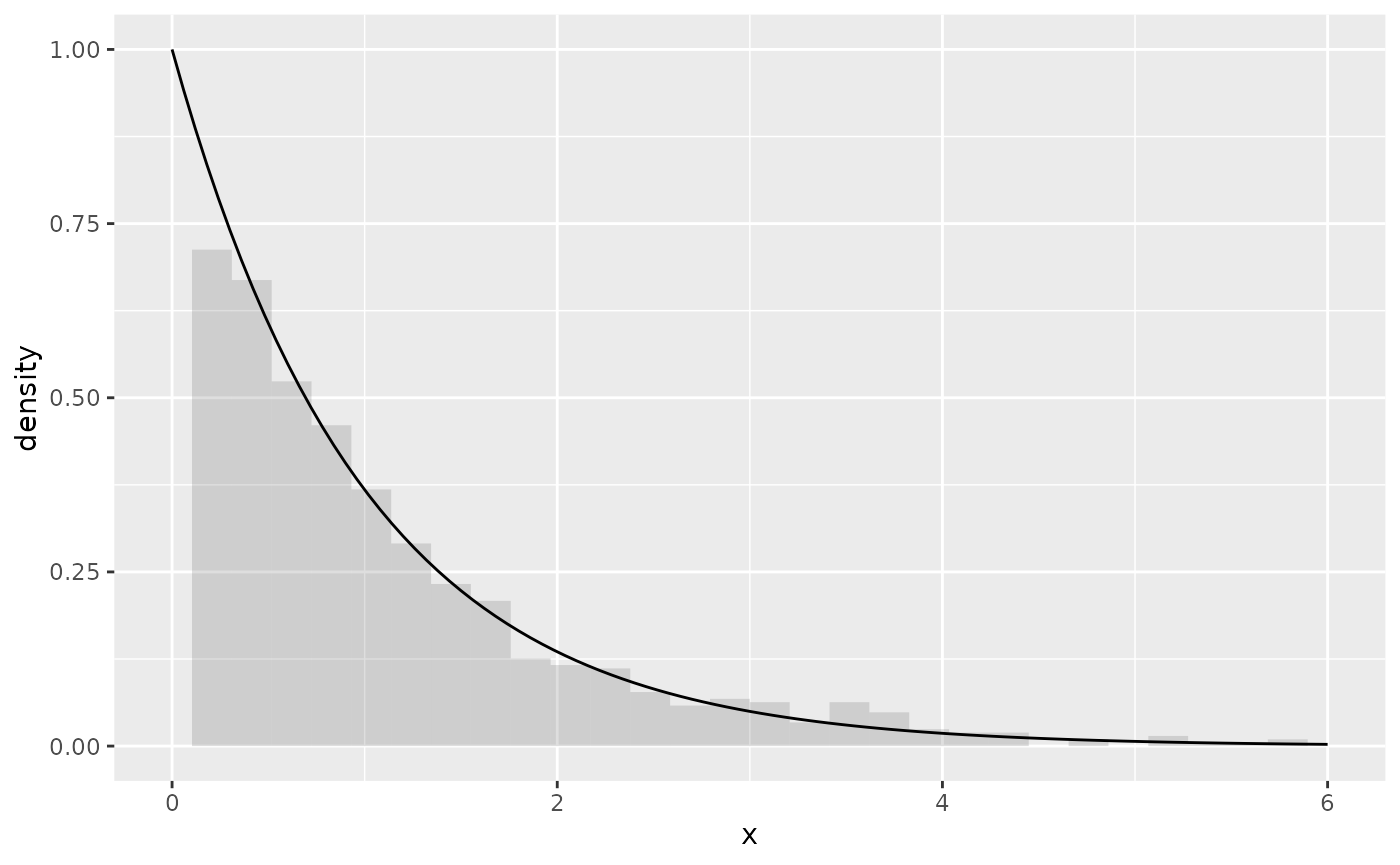
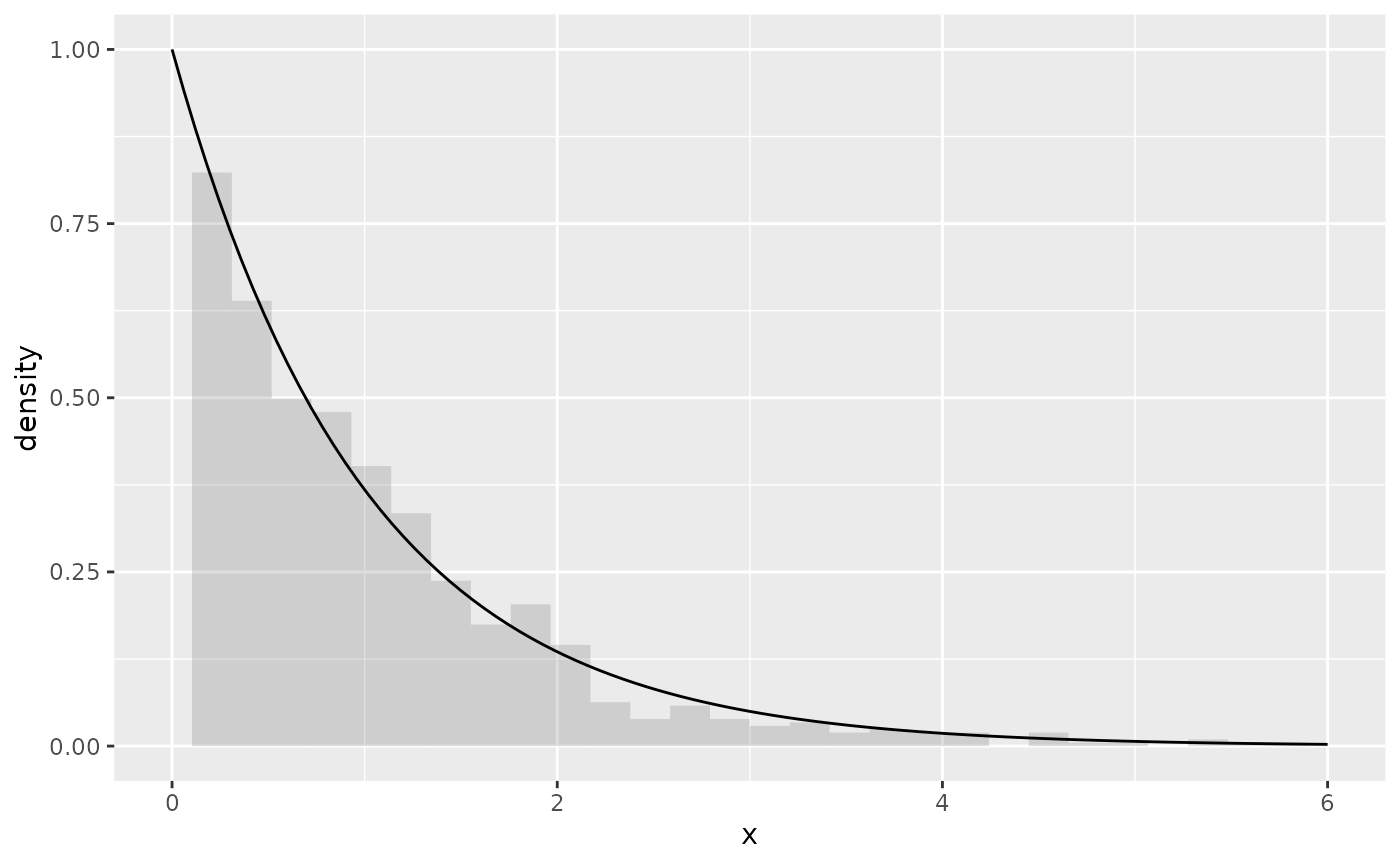
Built site for algebraic.mle: 0.1.0@7ae1e23

diff --git a/articles/exponential-mle.html b/articles/exponential-mle.html
@@ -6,12 +6,12 @@
 <meta http-equiv="X-UA-Compatible" content="IE=edge">
 <meta name="viewport" content="width=device-width, initial-scale=1, shrink-to-fit=no">
 <meta name="description" content="algebraic.mle">
-<title>Maximum likelihood estimator of the exponential distribution • algebraic.mle</title>
+<title>Exponential distribution MLE • algebraic.mle</title>
 <script src="../deps/jquery-3.6.0/jquery-3.6.0.min.js"></script><meta name="viewport" content="width=device-width, initial-scale=1, shrink-to-fit=no">
 <link href="../deps/bootstrap-5.1.0/bootstrap.min.css" rel="stylesheet">
 <script src="../deps/bootstrap-5.1.0/bootstrap.bundle.min.js"></script><!-- Font Awesome icons --><link rel="stylesheet" href="https://cdnjs.cloudflare.com/ajax/libs/font-awesome/5.12.1/css/all.min.css" integrity="sha256-mmgLkCYLUQbXn0B1SRqzHar6dCnv9oZFPEC1g1cwlkk=" crossorigin="anonymous">
 <link rel="stylesheet" href="https://cdnjs.cloudflare.com/ajax/libs/font-awesome/5.12.1/css/v4-shims.min.css" integrity="sha256-wZjR52fzng1pJHwx4aV2AO3yyTOXrcDW7jBpJtTwVxw=" crossorigin="anonymous">
-<!-- bootstrap-toc --><script src="https://cdn.rawgit.com/afeld/bootstrap-toc/v1.0.1/dist/bootstrap-toc.min.js"></script><!-- headroom.js --><script src="https://cdnjs.cloudflare.com/ajax/libs/headroom/0.11.0/headroom.min.js" integrity="sha256-AsUX4SJE1+yuDu5+mAVzJbuYNPHj/WroHuZ8Ir/CkE0=" crossorigin="anonymous"></script><script src="https://cdnjs.cloudflare.com/ajax/libs/headroom/0.11.0/jQuery.headroom.min.js" integrity="sha256-ZX/yNShbjqsohH1k95liqY9Gd8uOiE1S4vZc+9KQ1K4=" crossorigin="anonymous"></script><!-- clipboard.js --><script src="https://cdnjs.cloudflare.com/ajax/libs/clipboard.js/2.0.6/clipboard.min.js" integrity="sha256-inc5kl9MA1hkeYUt+EC3BhlIgyp/2jDIyBLS6k3UxPI=" crossorigin="anonymous"></script><!-- search --><script src="https://cdnjs.cloudflare.com/ajax/libs/fuse.js/6.4.6/fuse.js" integrity="sha512-zv6Ywkjyktsohkbp9bb45V6tEMoWhzFzXis+LrMehmJZZSys19Yxf1dopHx7WzIKxr5tK2dVcYmaCk2uqdjF4A==" crossorigin="anonymous"></script><script src="https://cdnjs.cloudflare.com/ajax/libs/autocomplete.js/0.38.0/autocomplete.jquery.min.js" integrity="sha512-GU9ayf+66Xx2TmpxqJpliWbT5PiGYxpaG8rfnBEk1LL8l1KGkRShhngwdXK1UgqhAzWpZHSiYPc09/NwDQIGyg==" crossorigin="anonymous"></script><script src="https://cdnjs.cloudflare.com/ajax/libs/mark.js/8.11.1/mark.min.js" integrity="sha512-5CYOlHXGh6QpOFA/TeTylKLWfB3ftPsde7AnmhuitiTX4K5SqCLBeKro6sPS8ilsz1Q4NRx3v8Ko2IBiszzdww==" crossorigin="anonymous"></script><!-- pkgdown --><script src="../pkgdown.js"></script><meta property="og:title" content="Maximum likelihood estimator of the exponential distribution">
+<!-- bootstrap-toc --><script src="https://cdn.rawgit.com/afeld/bootstrap-toc/v1.0.1/dist/bootstrap-toc.min.js"></script><!-- headroom.js --><script src="https://cdnjs.cloudflare.com/ajax/libs/headroom/0.11.0/headroom.min.js" integrity="sha256-AsUX4SJE1+yuDu5+mAVzJbuYNPHj/WroHuZ8Ir/CkE0=" crossorigin="anonymous"></script><script src="https://cdnjs.cloudflare.com/ajax/libs/headroom/0.11.0/jQuery.headroom.min.js" integrity="sha256-ZX/yNShbjqsohH1k95liqY9Gd8uOiE1S4vZc+9KQ1K4=" crossorigin="anonymous"></script><!-- clipboard.js --><script src="https://cdnjs.cloudflare.com/ajax/libs/clipboard.js/2.0.6/clipboard.min.js" integrity="sha256-inc5kl9MA1hkeYUt+EC3BhlIgyp/2jDIyBLS6k3UxPI=" crossorigin="anonymous"></script><!-- search --><script src="https://cdnjs.cloudflare.com/ajax/libs/fuse.js/6.4.6/fuse.js" integrity="sha512-zv6Ywkjyktsohkbp9bb45V6tEMoWhzFzXis+LrMehmJZZSys19Yxf1dopHx7WzIKxr5tK2dVcYmaCk2uqdjF4A==" crossorigin="anonymous"></script><script src="https://cdnjs.cloudflare.com/ajax/libs/autocomplete.js/0.38.0/autocomplete.jquery.min.js" integrity="sha512-GU9ayf+66Xx2TmpxqJpliWbT5PiGYxpaG8rfnBEk1LL8l1KGkRShhngwdXK1UgqhAzWpZHSiYPc09/NwDQIGyg==" crossorigin="anonymous"></script><script src="https://cdnjs.cloudflare.com/ajax/libs/mark.js/8.11.1/mark.min.js" integrity="sha512-5CYOlHXGh6QpOFA/TeTylKLWfB3ftPsde7AnmhuitiTX4K5SqCLBeKro6sPS8ilsz1Q4NRx3v8Ko2IBiszzdww==" crossorigin="anonymous"></script><!-- pkgdown --><script src="../pkgdown.js"></script><meta property="og:title" content="Exponential distribution MLE">
 <meta property="og:description" content="algebraic.mle">
 <!-- mathjax --><script src="https://cdnjs.cloudflare.com/ajax/libs/mathjax/2.7.5/MathJax.js" integrity="sha256-nvJJv9wWKEm88qvoQl9ekL2J+k/RWIsaSScxxlsrv8k=" crossorigin="anonymous"></script><script src="https://cdnjs.cloudflare.com/ajax/libs/mathjax/2.7.5/config/TeX-AMS-MML_HTMLorMML.js" integrity="sha256-84DKXVJXs0/F8OTMzX4UR909+jtl4G7SPypPavF+GfA=" crossorigin="anonymous"></script><!--[if lt IE 9]>
 <script src="https://oss.maxcdn.com/html5shiv/3.7.3/html5shiv.min.js"></script>
@@ -41,7 +41,7 @@
 <li class="active nav-item dropdown">
   <a href="#" class="nav-link dropdown-toggle" data-bs-toggle="dropdown" role="button" aria-expanded="false" aria-haspopup="true" id="dropdown-articles">Articles</a>
   <div class="dropdown-menu" aria-labelledby="dropdown-articles">
-    <a class="dropdown-item" href="../articles/exponential-mle.html">Maximum likelihood estimator of the exponential distribution</a>
+    <a class="dropdown-item" href="../articles/exponential-mle.html">Exponential distribution MLE</a>
   </div>
 </li>
 <li class="nav-item">
@@ -70,7 +70,7 @@
 
 <script src="exponential-mle_files/accessible-code-block-0.0.1/empty-anchor.js"></script><div class="row">
   <main id="main"><div class="page-header">
-      <img src="" class="logo" alt=""><h1>Maximum likelihood estimator of the exponential distribution</h1>
+      <img src="" class="logo" alt=""><h1>Exponential distribution MLE</h1>
             
       
       <small class="dont-index">Source: <a href="https://github.com/queelius/algebraic.mle/blob/HEAD/vignettes/exponential-mle.Rmd" class="external-link"><code>vignettes/exponential-mle.Rmd</code></a></small>
@@ -85,7 +85,9 @@
 <p>To demonstrate the <code>algebraic.mle</code> R package, we consider the relatively simple case of a random sample from the exponentially distributed random variables.</p>
 <p>First, we load the R package <code>algebraic.mle</code> with:</p>
 <div class="sourceCode" id="cb1"><pre class="downlit sourceCode r">
-<code class="sourceCode R"><span class="kw"><a href="https://rdrr.io/r/base/library.html" class="external-link">library</a></span><span class="op">(</span><span class="va"><a href="https://github.com/queelius/algebraic.mle" class="external-link">algebraic.mle</a></span><span class="op">)</span></code></pre></div>
+<code class="sourceCode R"><span class="co">#library(devtools)</span>
+<span class="co">#devtools::install_github("queelius/algebraic.mle")</span>
+<span class="kw"><a href="https://rdrr.io/r/base/library.html" class="external-link">library</a></span><span class="op">(</span><span class="va"><a href="https://github.com/queelius/algebraic.mle" class="external-link">algebraic.mle</a></span><span class="op">)</span></code></pre></div>
 </div>
 <div class="section level2">
 <h2 id="generating-a-sample">Generating a sample<a class="anchor" aria-label="anchor" href="#generating-a-sample"></a>
@@ -103,10 +105,10 @@
 <span class="co">#&gt; <span style="color: #949494;"># A tibble: 4 × 1</span></span>
 <span class="co">#&gt;        x</span>
 <span class="co">#&gt;    <span style="color: #949494; font-style: italic;">&lt;dbl&gt;</span></span>
-<span class="co">#&gt; <span style="color: #BCBCBC;">1</span> 0.143 </span>
-<span class="co">#&gt; <span style="color: #BCBCBC;">2</span> 0.901 </span>
-<span class="co">#&gt; <span style="color: #BCBCBC;">3</span> 0.575 </span>
-<span class="co">#&gt; <span style="color: #BCBCBC;">4</span> 0.073<span style="text-decoration: underline;">0</span></span></code></pre></div>
+<span class="co">#&gt; <span style="color: #BCBCBC;">1</span> 0.028<span style="text-decoration: underline;">2</span></span>
+<span class="co">#&gt; <span style="color: #BCBCBC;">2</span> 0.041<span style="text-decoration: underline;">0</span></span>
+<span class="co">#&gt; <span style="color: #BCBCBC;">3</span> 1.26  </span>
+<span class="co">#&gt; <span style="color: #BCBCBC;">4</span> 1.12</span></code></pre></div>
 <p>We show a histogram of the sample, and a plot of the exponential function’s pdf, with:</p>
 <div class="sourceCode" id="cb4"><pre class="downlit sourceCode r">
 <code class="sourceCode R"><span class="kw"><a href="https://rdrr.io/r/base/library.html" class="external-link">library</a></span><span class="op">(</span><span class="va"><a href="https://ggplot2.tidyverse.org" class="external-link">ggplot2</a></span><span class="op">)</span>
@@ -125,35 +127,35 @@
 <span class="fu"><a href="https://rdrr.io/r/base/summary.html" class="external-link">summary</a></span><span class="op">(</span><span class="va">rate.hat</span><span class="op">)</span>
 <span class="co">#&gt; Maximum likelihood estimator, of type mle_exp ,</span>
 <span class="co">#&gt; is normally distributed with mean</span>
-<span class="co">#&gt; [1] 0.94025</span>
+<span class="co">#&gt; [1] 1.022601</span>
 <span class="co">#&gt; and variance-covariance</span>
-<span class="co">#&gt;              [,1]</span>
-<span class="co">#&gt; [1,] 0.0008840701</span>
+<span class="co">#&gt;             [,1]</span>
+<span class="co">#&gt; [1,] 0.001045712</span>
 <span class="co">#&gt; ---</span>
-<span class="co">#&gt; The asymptotic mean squared error 0.0008840701 </span>
+<span class="co">#&gt; The asymptotic mean squared error 0.001045712 </span>
 <span class="co">#&gt; The asymptotic 95% confidence interval is</span>
 <span class="co">#&gt;       2.5 %   97.5 %</span>
-<span class="co">#&gt; 1 0.8913431 0.989157</span>
-<span class="co">#&gt; The log-likelihood is -1061.609 </span>
-<span class="co">#&gt; The AIC is 2125.219</span></code></pre></div>
+<span class="co">#&gt; 1 0.9694101 1.075791</span>
+<span class="co">#&gt; The log-likelihood is -977.6511 </span>
+<span class="co">#&gt; The AIC is 1957.302</span></code></pre></div>
 <p>We can show the point estimator with:</p>
 <div class="sourceCode" id="cb6"><pre class="downlit sourceCode r">
 <code class="sourceCode R"><span class="fu"><a href="../reference/point.html">point</a></span><span class="op">(</span><span class="va">rate.hat</span><span class="op">)</span>
-<span class="co">#&gt; [1] 0.94025</span></code></pre></div>
+<span class="co">#&gt; [1] 1.022601</span></code></pre></div>
 <p>We can show the Fisher information and variance-covariance matrices with:</p>
 <div class="sourceCode" id="cb7"><pre class="downlit sourceCode r">
 <code class="sourceCode R"><span class="fu"><a href="../reference/fisher_info.html">fisher_info</a></span><span class="op">(</span><span class="va">rate.hat</span><span class="op">)</span>
 <span class="co">#&gt;          [,1]</span>
-<span class="co">#&gt; [1,] 1131.132</span>
+<span class="co">#&gt; [1,] 956.2864</span>
 <span class="fu"><a href="https://rdrr.io/r/stats/vcov.html" class="external-link">vcov</a></span><span class="op">(</span><span class="va">rate.hat</span><span class="op">)</span>
-<span class="co">#&gt;              [,1]</span>
-<span class="co">#&gt; [1,] 0.0008840701</span></code></pre></div>
+<span class="co">#&gt;             [,1]</span>
+<span class="co">#&gt; [1,] 0.001045712</span></code></pre></div>
 <p>(If <code>rate.hat</code> had been a vector, <code>vcov</code> would have output a variance-covariance matrix. We may consider the above outputs <span class="math inline">\(1 \times 1\)</span> matrices.)</p>
 <p>We can show the confidence interval with:</p>
 <div class="sourceCode" id="cb8"><pre class="downlit sourceCode r">
 <code class="sourceCode R"><span class="fu"><a href="https://rdrr.io/r/stats/confint.html" class="external-link">confint</a></span><span class="op">(</span><span class="va">rate.hat</span><span class="op">)</span>
 <span class="co">#&gt;       2.5 %   97.5 %</span>
-<span class="co">#&gt; 1 0.8913431 0.989157</span></code></pre></div>
+<span class="co">#&gt; 1 0.9694101 1.075791</span></code></pre></div>
 <div class="section level3">
 <h3 id="sampling-distribution-of-the-mle">Sampling distribution of the MLE<a class="anchor" aria-label="anchor" href="#sampling-distribution-of-the-mle"></a>
 </h3>
@@ -204,23 +206,24 @@
 <p>We expected a mean of <span class="math inline">\(2\)</span> and a variance of <span class="math inline">\(4/n = 0.004\)</span>, which is pretty close to what we obtained:</p>
 <div class="sourceCode" id="cb14"><pre class="downlit sourceCode r">
 <code class="sourceCode R"><span class="fu"><a href="../reference/point.html">point</a></span><span class="op">(</span><span class="va">g.hat</span><span class="op">)</span>
-<span class="co">#&gt; [1] 1.8805</span>
+<span class="co">#&gt; [1] 2.045201</span>
 <span class="fu"><a href="https://rdrr.io/r/stats/vcov.html" class="external-link">vcov</a></span><span class="op">(</span><span class="va">g.hat</span><span class="op">)</span>
-<span class="co">#&gt;             [,1]</span>
-<span class="co">#&gt; [1,] 0.003543372</span></code></pre></div>
+<span class="co">#&gt;            [,1]</span>
+<span class="co">#&gt; [1,] 0.00450384</span></code></pre></div>
 </div>
 </div>
-<div class="section level3">
-<h3 id="weighted-mle-a-weighted-sum-of-maximum-likelihood-estimators">Weighted MLE: a weighted sum of maximum likelihood estimators<a class="anchor" aria-label="anchor" href="#weighted-mle-a-weighted-sum-of-maximum-likelihood-estimators"></a>
-</h3>
+</div>
+<div class="section level2">
+<h2 id="weighted-mle-a-weighted-sum-of-maximum-likelihood-estimators">Weighted MLE: a weighted sum of maximum likelihood estimators<a class="anchor" aria-label="anchor" href="#weighted-mle-a-weighted-sum-of-maximum-likelihood-estimators"></a>
+</h2>
 <p>Since the variance-covariance of an MLE is inversely proportional to the Fisher information that the MLE is defined with respect to, we can combine multiple MLEs of <span class="math inline">\(\theta\)</span>, each of which may be defined with respect to a different kind of sample, to arrive at the MLE that incorporates the Fisher information in all of those samples.</p>
 <p>Consider <span class="math inline">\(k\)</span> mutually independent MLE estimators of parameter <span class="math inline">\(\theta\)</span>, <span class="math inline">\(\hat\theta_1,\ldots,\hat\theta_k\)</span>, where <span class="math inline">\(\hat\theta_j \sim N(\theta,I_j^{-1}(\theta))\)</span>.</p>
 <p>Then, the maximum likelihood estimator of <span class="math inline">\(\theta\)</span> that incorporates all of the data in <span class="math inline">\(\hat\theta_1,\ldots,\hat\theta_k\)</span> is given by the inverse-variance weighted mean, <span class="math display">\[
     \hat\theta = \left(\sum I_j(\theta)\right)^{-1} \left(\sum I_j(\theta) \theta_j\right).
 \]</span></p>
-<div class="section level4">
-<h4 id="example-1">Example<a class="anchor" aria-label="anchor" href="#example-1"></a>
-</h4>
+<div class="section level3">
+<h3 id="example-1">Example<a class="anchor" aria-label="anchor" href="#example-1"></a>
+</h3>
 <p>To evaluate the performance of the weighted MLE, we generate a sample of <span class="math inline">\(N=1000\)</span> observations from <span class="math inline">\(\operatorname{EXP}(\lambda=1)\)</span> and compute the MLE for the observed sample, denoted by <span class="math inline">\(\theta\)</span>.</p>
 <p>We then divide the observed sample into <span class="math inline">\(r=5\)</span> sub-samples, each of size <span class="math inline">\(N/r=100\)</span>, and compute the MLE for each sub-sampled, denoted by <span class="math inline">\(\theta^{(1)},\ldots,\theta^{(r)}\)</span>.</p>
 <p>Finally, we do a weighted combination these MLEs to form the weighted MLE, denoted by <span class="math inline">\(\theta_w\)</span>:</p>
@@ -237,7 +240,6 @@
 <span class="va">mle</span> <span class="op">&lt;-</span> <span class="fu"><a href="../reference/mle_exp.html">mle_exp</a></span><span class="op">(</span><span class="va">samp</span><span class="op">)</span></code></pre></div>
 <p>We show the results in the following table:</p>
 <p>We see that <span class="math inline">\(\hat\theta\)</span> and <span class="math inline">\(\hat\theta_w\)</span> model approximately the same sampling distribution for <span class="math inline">\(\theta\)</span>.</p>
-</div>
 </div>
 </div>
   </main><aside class="col-md-3"><nav id="toc"><h2>On this page</h2>

diff --git a/index.html b/index.html
@@ -43,7 +43,7 @@
 <li class="nav-item dropdown">
   <a href="#" class="nav-link dropdown-toggle" data-bs-toggle="dropdown" role="button" aria-expanded="false" aria-haspopup="true" id="dropdown-articles">Articles</a>
   <div class="dropdown-menu" aria-labelledby="dropdown-articles">
-    <a class="dropdown-item" href="articles/exponential-mle.html">Maximum likelihood estimator of the exponential distribution</a>
+    <a class="dropdown-item" href="articles/exponential-mle.html">Exponential distribution MLE</a>
   </div>
 </li>
 <li class="nav-item">
@@ -102,18 +102,18 @@
 <h2 id="api">API<a class="anchor" aria-label="anchor" href="#api"></a>
 </h2>
 <p>The object representing a fitted model is a type of <code>mle</code> object, the maximum likelihood estimator of the model with respect to observed data.</p>
-<p>We define several generic functions with default implementations for objects that inherit from <code>mle</code>:</p>
+<p>For a full list of functions, see the <a href="https://queelius.github.io/algebraic.mle/reference/index.html">function reference</a> for <code>algebraic.mle</code>. In what follows, we briefly define the API (generic functions, mostly) with default implementations for objects that inherit from <code>mle</code>:</p>
 <ol style="list-style-type: decimal">
 <li><p><code>vcov(mle)</code> returns the variance-covariance matrix of the model’s parameter estimates.</p></li>
 <li><p><code>point(mle)</code> returns the point that maximizes the likelihood of the model.</p></li>
-<li><p><code>confint(mle)</code> returns confidence intervals of the point estimates of the <code>mle</code> object.</p></li>
-<li><p><code>sample(mle)</code> maps to a function that may be used to sample from the sampling distribution of <code>mle</code> object.</p></li>
+<li><p><code>confint(mle)</code> returns confidence intervals of the true parameter value estimated by the <code>mle</code> object.</p></li>
+<li><p><code>sampler(mle)</code> maps to a function that may be used to sample from the sampling distribution of the <code>mle</code> object.</p></li>
 <li><p><code>mse(mle)</code> computes the asymptotic mean squared error of the <code>mle</code> object.</p></li>
 <li><p><code>mle_weighted(mles)</code> computes the <em>weighted</em> maximum likelihood estimate from independent <code>mle</code> objects in the list argument <code>mles</code>.</p></li>
 <li><p><code>fisher_info(mle)</code> returns the Fisher information matrix of the model’s parameters.</p></li>
-<li><p><code>rmap(mle,g)</code> provides an approximation of the maximum likelihood estimator of <code>g(mle)</code>.</p></li>
+<li><p><code>rmap(mle,g)</code> provides an approximation of the maximum likelihood estimator of <em>g</em>(<em>θ</em>) where <code>mle</code> is an estimator of <em>θ</em>. The returned value is an <code>numerical_mle</code> estimator of <em>g</em>(<em>θ</em>). Note that <code>numerical_mle</code> inherits from <code>mle</code>.</p></li>
 <li>
-<p>Finally, since normal distributions are closed under linear transformations, then letting <em>A</em> be a <em>p</em>-by-<em>q</em> matrix and <em>θ̂</em> be a <em>q</em> dimensional random vector (MLE for estmiating <em>θ</em>), then *A**θ̂* is a <em>p</em> dimensional multivariate normal with a mean <em>A<strong>θ<em> and a variance-covariance </em>A<em>′vcov (</em>θ̂<em>)</em>A<em>. Furthermore, by the invariance property of the MLE, </em>A</strong>θ̂</em> is the MLE of <span class="math inline">$\\A\\theta$</span>.</p>
+<p>Finally, since normal distributions are closed under linear transformations, then letting <em>A</em> be a <em>p</em>-by-<em>q</em> matrix and <em>θ̂</em> be a <em>q</em> dimensional random vector (MLE for estimating <em>θ</em>), then *A**θ̂* is a <em>p</em> dimensional multivariate normal with a mean <em>A<strong>θ<em> and a variance-covariance </em>A<em>′vcov (</em>θ̂<em>)</em>A<em>. Furthermore, by the invariance property of the MLE, </em>A</strong>θ̂</em> is the MLE of *A**θ*.</p>
 <p>We define a set of generic functions for multiplying <code>mle</code> objects by (non-random) matrices and vectors to permit these sort of operations, with the asymptotic distributions of the operators applied to the <code>mle</code> objects exactly known if the asymptotic distribution of the <code>mle</code> objects are exactly known.</p>
 <p>See <code>rmap</code> for when the operation is non-linear.</p>
 </li>

diff --git a/articles/index.html b/articles/index.html
@@ -24,7 +24,7 @@
 <li class="nav-item dropdown">
   <a href="#" class="nav-link dropdown-toggle" data-bs-toggle="dropdown" role="button" aria-expanded="false" aria-haspopup="true" id="dropdown-articles">Articles</a>
   <div class="dropdown-menu" aria-labelledby="dropdown-articles">
-    <a class="dropdown-item" href="../articles/exponential-mle.html">Maximum likelihood estimator of the exponential distribution</a>
+    <a class="dropdown-item" href="../articles/exponential-mle.html">Exponential distribution MLE</a>
   </div>
 </li>
 <li class="nav-item">
@@ -53,7 +53,7 @@
       <h3>All vignettes</h3>
       <p class="section-desc"></p>
 
-      <dl><dt><a href="exponential-mle.html">Maximum likelihood estimator of the exponential distribution</a></dt>
+      <dl><dt><a href="exponential-mle.html">Exponential distribution MLE</a></dt>
         <dd>
       </dd></dl></div>
   </main></div>

diff --git a/404.html b/404.html
@@ -39,7 +39,7 @@
 <li class="nav-item dropdown">
   <a href="https://queelius.github.io/algebraic.mle/#" class="nav-link dropdown-toggle" data-bs-toggle="dropdown" role="button" aria-expanded="false" aria-haspopup="true" id="dropdown-articles">Articles</a>
   <div class="dropdown-menu" aria-labelledby="dropdown-articles">
-    <a class="dropdown-item" href="https://queelius.github.io/algebraic.mle/articles/exponential-mle.html">Maximum likelihood estimator of the exponential distribution</a>
+    <a class="dropdown-item" href="https://queelius.github.io/algebraic.mle/articles/exponential-mle.html">Exponential distribution MLE</a>
   </div>
 </li>
 <li class="nav-item">

diff --git a/reference/fisher_info.html b/reference/fisher_info.html
@@ -28,7 +28,7 @@ matrix of an mle object."><!-- mathjax --><script src="https://cdnjs.cloudflare.
 <li class="nav-item dropdown">
   <a href="#" class="nav-link dropdown-toggle" data-bs-toggle="dropdown" role="button" aria-expanded="false" aria-haspopup="true" id="dropdown-articles">Articles</a>
   <div class="dropdown-menu" aria-labelledby="dropdown-articles">
-    <a class="dropdown-item" href="../articles/exponential-mle.html">Maximum likelihood estimator of the exponential distribution</a>
+    <a class="dropdown-item" href="../articles/exponential-mle.html">Exponential distribution MLE</a>
   </div>
 </li>
 <li class="nav-item">

diff --git a/reference/mle_exp.html b/reference/mle_exp.html
@@ -32,7 +32,7 @@ model to the data."><!-- mathjax --><script src="https://cdnjs.cloudflare.com/aj
 <li class="nav-item dropdown">
   <a href="#" class="nav-link dropdown-toggle" data-bs-toggle="dropdown" role="button" aria-expanded="false" aria-haspopup="true" id="dropdown-articles">Articles</a>
   <div class="dropdown-menu" aria-labelledby="dropdown-articles">
-    <a class="dropdown-item" href="../articles/exponential-mle.html">Maximum likelihood estimator of the exponential distribution</a>
+    <a class="dropdown-item" href="../articles/exponential-mle.html">Exponential distribution MLE</a>
   </div>
 </li>
 <li class="nav-item">

diff --git a/reference/mle_weighted.html b/reference/mle_weighted.html
@@ -32,7 +32,7 @@ summation."><!-- mathjax --><script src="https://cdnjs.cloudflare.com/ajax/libs/
 <li class="nav-item dropdown">
   <a href="#" class="nav-link dropdown-toggle" data-bs-toggle="dropdown" role="button" aria-expanded="false" aria-haspopup="true" id="dropdown-articles">Articles</a>
   <div class="dropdown-menu" aria-labelledby="dropdown-articles">
-    <a class="dropdown-item" href="../articles/exponential-mle.html">Maximum likelihood estimator of the exponential distribution</a>
+    <a class="dropdown-item" href="../articles/exponential-mle.html">Exponential distribution MLE</a>
   </div>
 </li>
 <li class="nav-item">

diff --git a/reference/mse.html b/reference/mse.html
@@ -32,7 +32,7 @@ parameter value."><!-- mathjax --><script src="https://cdnjs.cloudflare.com/ajax
 <li class="nav-item dropdown">
   <a href="#" class="nav-link dropdown-toggle" data-bs-toggle="dropdown" role="button" aria-expanded="false" aria-haspopup="true" id="dropdown-articles">Articles</a>
   <div class="dropdown-menu" aria-labelledby="dropdown-articles">
-    <a class="dropdown-item" href="../articles/exponential-mle.html">Maximum likelihood estimator of the exponential distribution</a>
+    <a class="dropdown-item" href="../articles/exponential-mle.html">Exponential distribution MLE</a>
   </div>
 </li>
 <li class="nav-item">

diff --git a/reference/mse.mle.html b/reference/mse.mle.html
@@ -30,7 +30,7 @@ mse(x.hat) = E[(x.hat-x)^2] = trace(vcov(x.hat)) + (bias(x.hat))^2."><!-- mathja
 <li class="nav-item dropdown">
   <a href="#" class="nav-link dropdown-toggle" data-bs-toggle="dropdown" role="button" aria-expanded="false" aria-haspopup="true" id="dropdown-articles">Articles</a>
   <div class="dropdown-menu" aria-labelledby="dropdown-articles">
-    <a class="dropdown-item" href="../articles/exponential-mle.html">Maximum likelihood estimator of the exponential distribution</a>
+    <a class="dropdown-item" href="../articles/exponential-mle.html">Exponential distribution MLE</a>
   </div>
 </li>
 <li class="nav-item">

diff --git a/reference/nobs.mle.html b/reference/nobs.mle.html
@@ -28,7 +28,7 @@ an mle."><!-- mathjax --><script src="https://cdnjs.cloudflare.com/ajax/libs/mat
 <li class="nav-item dropdown">
   <a href="#" class="nav-link dropdown-toggle" data-bs-toggle="dropdown" role="button" aria-expanded="false" aria-haspopup="true" id="dropdown-articles">Articles</a>
   <div class="dropdown-menu" aria-labelledby="dropdown-articles">
-    <a class="dropdown-item" href="../articles/exponential-mle.html">Maximum likelihood estimator of the exponential distribution</a>
+    <a class="dropdown-item" href="../articles/exponential-mle.html">Exponential distribution MLE</a>
   </div>
 </li>
 <li class="nav-item">

diff --git a/reference/rmap.html b/reference/rmap.html
@@ -32,7 +32,7 @@ argument is a random variable, then f(x) is also a random variable."><!-- mathja
 <li class="nav-item dropdown">
   <a href="#" class="nav-link dropdown-toggle" data-bs-toggle="dropdown" role="button" aria-expanded="false" aria-haspopup="true" id="dropdown-articles">Articles</a>
   <div class="dropdown-menu" aria-labelledby="dropdown-articles">
-    <a class="dropdown-item" href="../articles/exponential-mle.html">Maximum likelihood estimator of the exponential distribution</a>
+    <a class="dropdown-item" href="../articles/exponential-mle.html">Exponential distribution MLE</a>
   </div>
 </li>
 <li class="nav-item">

diff --git a/reference/rmap.mle.html b/reference/rmap.mle.html
@@ -32,7 +32,7 @@ then f(x) is also a random variable."><!-- mathjax --><script src="https://cdnjs
 <li class="nav-item dropdown">
   <a href="#" class="nav-link dropdown-toggle" data-bs-toggle="dropdown" role="button" aria-expanded="false" aria-haspopup="true" id="dropdown-articles">Articles</a>
   <div class="dropdown-menu" aria-labelledby="dropdown-articles">
-    <a class="dropdown-item" href="../articles/exponential-mle.html">Maximum likelihood estimator of the exponential distribution</a>
+    <a class="dropdown-item" href="../articles/exponential-mle.html">Exponential distribution MLE</a>
   </div>
 </li>
 <li class="nav-item">
